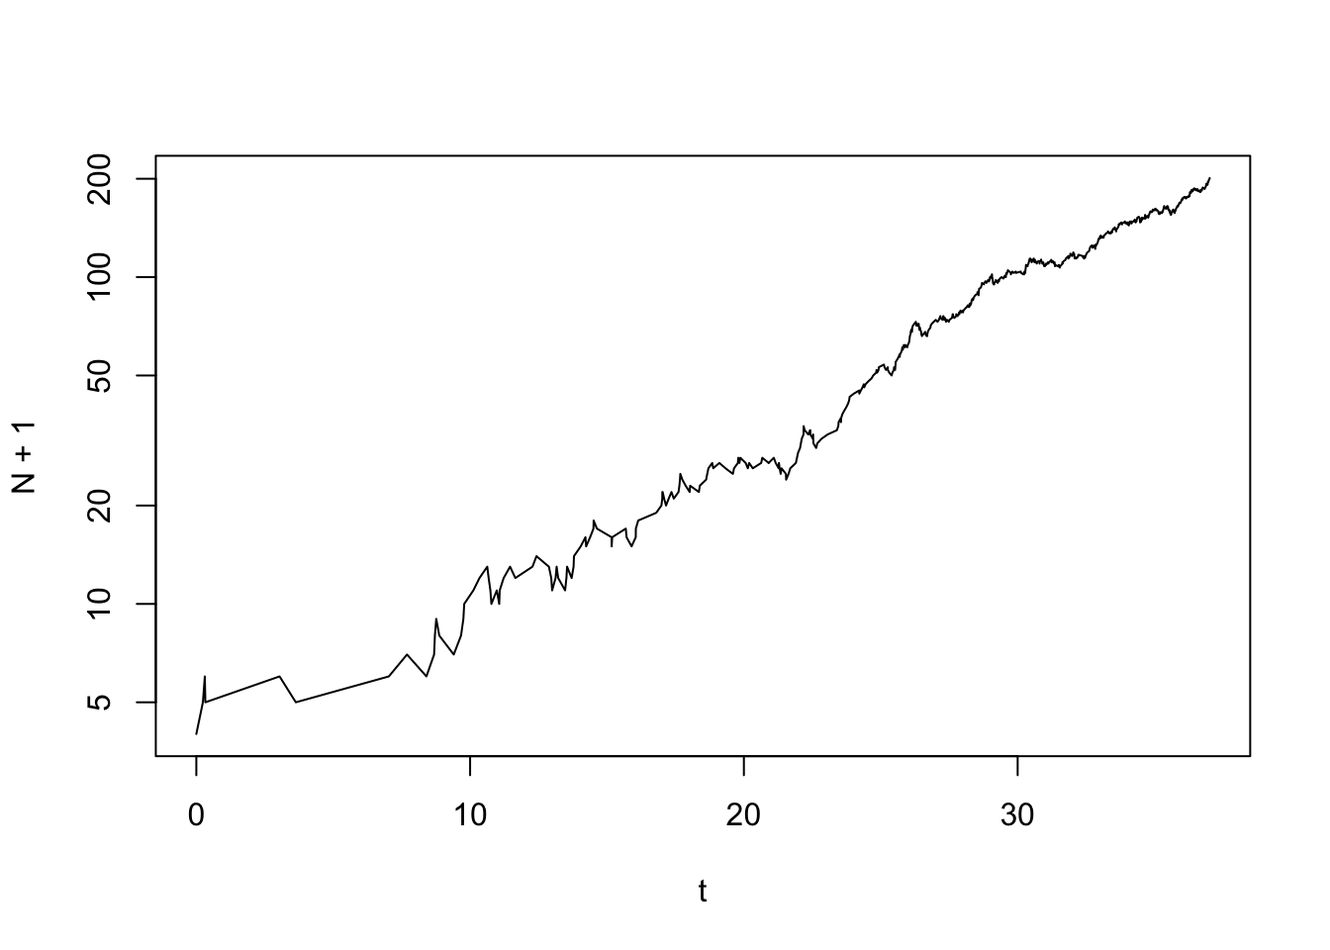
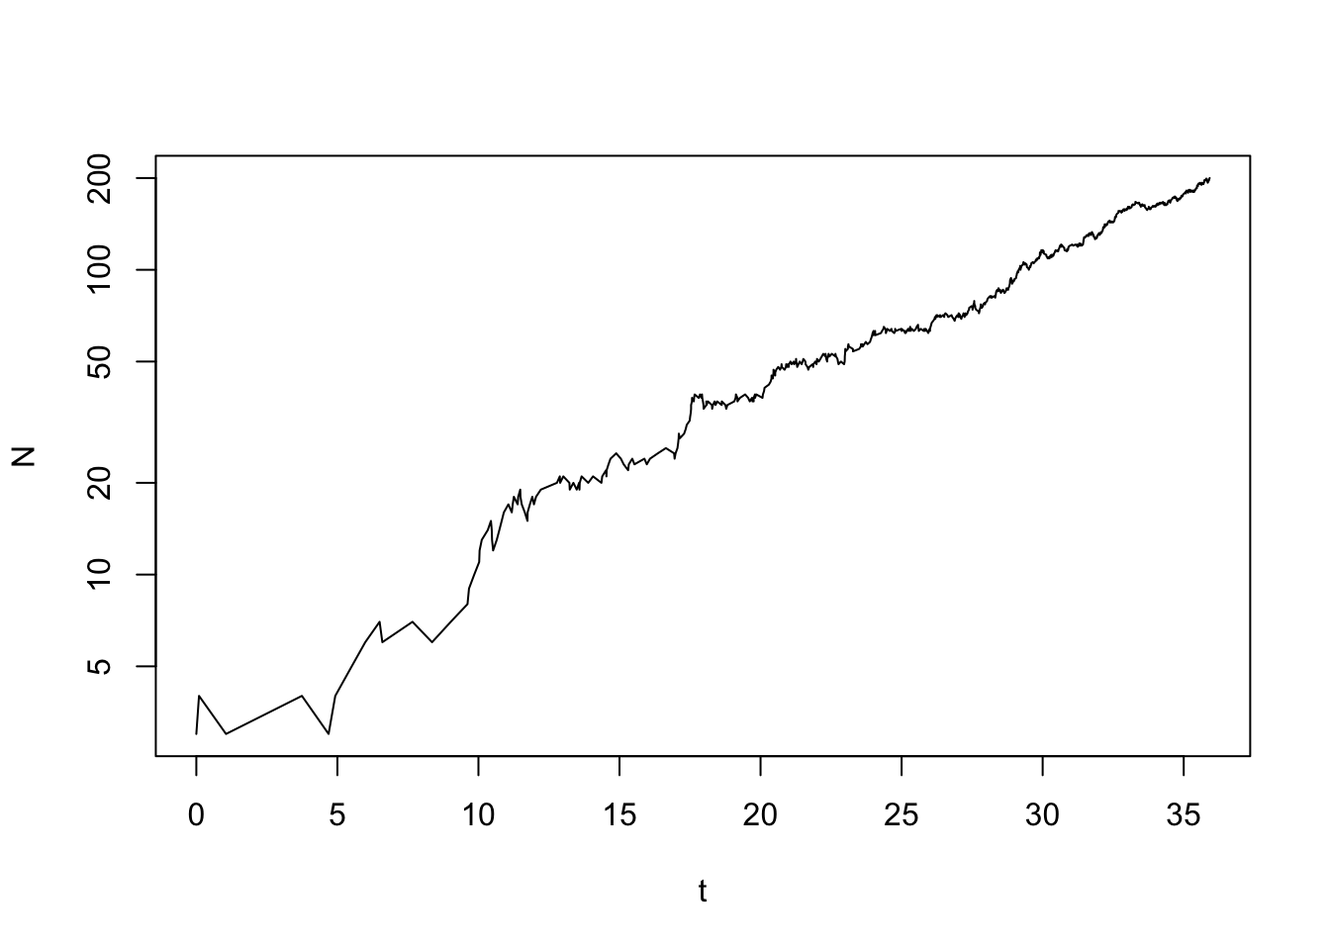
correcting errors

diff --git a/docs/DemographicStochasticity.html b/docs/DemographicStochasticity.html
@@ -273,30 +273,28 @@ $(document).ready(function () {
 
 <div id="demographic-stochasticity" class="section level1 tabset">
 <h1>Demographic Stochasticity</h1>
-<div id="demographic-stochasticity-1" class="section level2">
-<h2>Demographic Stochasticity</h2>
 <p>In this exercise, we will explore through stochastic simulations a simple birth-death process. In the lecture, we have seen that the deterministic equation for exponential growth,</p>
 <p><span class="math display">\[
 \frac{\mathrm{d}N}{\mathrm{d}t}=N(b-d)=Nr,
 \]</span> describes the mean over many simulations. These simulations take into account that, even if all individuals in a population are genetically identical, they will still differ in the number of their offspring and their age at death. This is due to chance events (some people are hit by a falling tree while others are not…). Fluctuations due to such chance events acting at the level of the individual are called <em>demographic stochasticity</em>. In this exercise, we will explore the consequences of demographic stochasticity for population viability.</p>
-<p>More specifically, stochasticity enters our simulation by deciding randomly whether the next event in a population is a deatz or a birth. If death occurs, then population size decreases by one and if birth occurs population size increases by one. The probabilities with which these two events occur are proportional to <code>d*N(t)</code> and <code>b*N(t)</code>, respectively. To implement this idea in R we can use the function <code>sample(x, size, prob)</code>, where <code>x = c(-1, 1)</code> is the vector of possible events (-1 in case of a death and 1 in case of a birth), <code>size = 1</code> indicates how many events occur at any given point in time, and <code>prob = c(d*N, b*N)</code> gives the vector of probabilities with which the two evnts occur. Thus, if you evaluate the following command ten times you expect to obtain <em>on average</em> -1 four times and +1 six times.</p>
+<p>More specifically, stochasticity enters our simulation by deciding randomly whether the next event in a population is a death or a birth. If death occurs, then population size decreases by one and if birth occurs population size increases by one. The probabilities with which these two events occur are proportional to <code>d*N(t)</code> and <code>b*N(t)</code>, respectively. To implement this idea in R we can use the function <code>sample(x, size, prob)</code>, where <code>x = c(-1, 1)</code> is the vector of possible events (-1 in case of a death and 1 in case of a birth), <code>size = 1</code> indicates how many events occur at any given point in time, and <code>prob = c(d*N, b*N)</code> gives the vector of probabilities with which the two evnts occur. Thus, if you evaluate the following command ten times you expect to obtain <em>on average</em> -1 four times and +1 six times.</p>
 <pre class="r"><code>sample(x =c(-1, 1), size = 1, prob = c(d = 0.2, b = 0.3))
 # in fact, instead of evaluating the above line of code ten times we can simply evaluate
-sample(x =c(-1, 1), size = 10, replace = TRUE, prob = c(d = 0.2, b = 0.3)) # here we had to add the argument replace=TRUE to the function to indicate that earlier outcomes do not effect the probabilities for alternative future outcomes</code></pre>
+sample(x =c(-1, 1), size = 10, replace = TRUE, prob = c(d = 0.2, b = 0.3)) # here we had to add the argument replace=TRUE to the function to indicate that earlier outcomes do not effect the probabilities of future outcomes</code></pre>
 <p>If the population wide death and birth rate are given by <code>d*N</code> and <code>b*N</code>, respectively, how much time elapses between the occurence of two events? This <em>waiting time</em> depends on the probability that neither a death nor a birth event occurs at a given moment. Thus, the length of the waiting time between two events is also a random variable and its distribution is given by the exponential distribution. We can determine the length of the wating time by drawing a random number from the exponential distribution after a death or a birth has occured using <code>rexp(n = 1, rate = d * N + b * N)</code>, where <code>n = 1</code> indicates that we are drawing a single waiting time and <code>rate = d * N + b * N</code> is the <em>total event rate</em>. For example</p>
 <pre class="r"><code>d &lt;- 0.2
 b &lt;- 0.3
 N &lt;- 10
 rexp(n = 1, rate = d * N + b * N)</code></pre>
 <p>gives the waiting time between two events. Note that <code>rexp(n = 1, rate = d * N + b * N)</code> produces a different value each time you execute the above command.</p>
-<p>In the following piece of R-code we define a function that puts all these pieces together and creates a stochastic population dynamical time series. The function has four arguments: <code>N0</code> (the initial number of individuals in the population), <code>Nmax</code> (when the simulated population has reached this number the simulation stops; the simulation will also stop once the population has gone extinct (<code>N=0</code>)), <code>d</code> (the per capita death rate) and <code>b</code> (the per capita birth rate). At the heart of our function is a while loop so that the algorithm is repeated until the population is either extinct or the population size has reached <code>Nmax</code>.</p>
-<pre class="r"><code>time_series &lt;- function(N0, Nmax, d, b){# this defines a function with the name &quot;time_series&quot;. It has four arguments: N0, Nmax, birth, death
+<p>In the following piece of R-code we define a function that puts all these pieces together and creates a stochastic population dynamical time series. The function has four arguments: <code>N0</code> (the initial number of individuals in the population), <code>Nmax</code> (when the simulated population has reached this number the simulation stops (the simulation also stops once the population has gone extinct (<code>N=0</code>)), <code>d</code> (the per capita death rate) and <code>b</code> (the per capita birth rate). At the heart of our function is a <code>while</code>-loop so that the algorithm is repeated until the population is either extinct or the population size has reached <code>Nmax</code>.</p>
+<pre class="r"><code>time_series &lt;- function(N0, Nmax, d, b){# this defines a function with the name &quot;time_series&quot;. It has four arguments: N0, Nmax, b, d
   N &lt;- N0 # initial value for population size
   t &lt;- 0 # initial value for time
   output &lt;- data.frame(t,N) # creates a data frame with two columns (one for time and one for population size) in which we can store the results from the simulation, we could also have use a matrix instead
   while (N &lt; Nmax &amp; N &gt; 0) {# loop runs until N=0 or N=Nmax
-    dt &lt;- rexp(1, rate = d * N + b * N) # time to next event
-    event &lt;- sample(c(-1, 1), 1, prob = c(d * N, b * N)) # determines which type of event happens by drawing a random number
+    dt &lt;- rexp(1, rate = d * N + b * N) # time to next event drawn from exponential distribution
+    event &lt;- sample(c(-1, 1), 1, prob = c(d * N, b * N)) # determines whether next event is birth or death
     t &lt;- t + dt # updates time
     N &lt;- N + event # updates population size
     output &lt;- rbind(output, c(t, N)) # updates output by adding a new row
@@ -307,26 +305,32 @@ rexp(n = 1, rate = d * N + b * N)</code></pre>
 <pre class="r"><code>time_series(N0 = 3, Nmax = 10, d = 0.2, b = 0.3)</code></pre>
 <pre><code>##            t  N
 ## 1  0.0000000  3
-## 2  0.3357333  4
-## 3  1.8686424  5
-## 4  2.8669254  4
-## 5  3.1661368  3
-## 6  3.4675227  4
-## 7  3.9520324  5
-## 8  4.4441717  6
-## 9  4.7472628  7
-## 10 4.8644990  8
-## 11 5.1612488  9
-## 12 5.2372376 10</code></pre>
+## 2  0.7143201  4
+## 3  0.8235761  5
+## 4  1.1380194  4
+## 5  1.3201512  5
+## 6  2.0445433  4
+## 7  3.4824504  3
+## 8  3.6450914  4
+## 9  4.1332520  5
+## 10 4.4396723  6
+## 11 4.6463058  5
+## 12 7.1406417  6
+## 13 7.4495926  7
+## 14 7.6167717  6
+## 15 7.6613418  7
+## 16 7.7292746  8
+## 17 7.8018218  9
+## 18 7.9019734 10</code></pre>
 <p>Thus, in this case we have <code>N0=3</code>, <code>Nmax=10</code>, <code>d=0.2</code>, and <code>b=0.3</code>. The output of the function is a data frame with two columns. The first column gives the time an event occurs and the second column gives the updated population size. Each time you evaluate the function you obtain a different output. This is due to the stochastic nature of the simulation. Let us visualize a time series (now for <em>Nmax=200</em>).</p>
 <pre class="r"><code>data &lt;- time_series(3, 200, 0.2, 0.3)
 plot(data, type=&quot;l&quot;)</code></pre>
 <p><img src="DemographicStochasticity_files/figure-html/unnamed-chunk-5-1.png" width="672" /></p>
 <p>Maybe in your particular simulation the population went extinct? If so, execute the function again to see whether it might then have reached <code>Nmax</code> before going extinct. Since we are dealing with a stochastic version of exponential growth we might want to plot the population size on a log-scale.</p>
-<pre class="r"><code>plot(N+1 ~ t, data, log=&quot;y&quot;, type=&quot;l&quot;)</code></pre>
+<pre class="r"><code>plot(data, log=&quot;y&quot;, type=&quot;l&quot;)</code></pre>
 <p><img src="DemographicStochasticity_files/figure-html/unnamed-chunk-6-1.png" width="672" /></p>
-<p>You can vary the parameters <code>N0</code>, <code>Nmax</code>, <code>d</code> and <code>b</code> and investigate their effect on the time series, more specifically, whether or not it experiences extinction.</p>
-<p>What is the effect of our chosen set of parameters on the probability that the population size reaches <code>N=Nmax</code> before going extinct? To investigate this we have to look at many realisations of the simulation and it is easier to do this by automatising this process. We start by setting the parameters where we add one additional parameter, <code>sim</code>, that determines how many times the simulation is repeated. We can do this using the same construction that we used when investigating many runs of environmental stochasticity.</p>
+<p>You can vary the parameters <code>N0</code>, <code>Nmax</code>, <code>d</code> and <code>b</code> and investigate their effect on the time series, more specifically, whether or not the population goes extinct.</p>
+<p>What is the effect of our chosen set of parameters on the probability that the population size reaches <code>N=Nmax</code> before it goes extinct? To investigate this, we have to look at many realisations of the simulation and it is easier to do this by automatising this process. We start by setting the parameters where we add one additional parameter, <code>sim</code>, that determines how many times the simulation is repeated. We can do this using the same construction we used when investigating many runs of environmental stochasticity.</p>
 <pre class="r"><code>N0 &lt;- 3
 Nmax &lt;- 50
 d &lt;- 0.2
@@ -334,25 +338,23 @@ b &lt;- 0.3
 sim &lt;- 10 # this sets the number of simulations
 
 results &lt;- list() # using the list variable allows us to save results of all iterations of the function time_series, that is, we can save several data frames in it
-j &lt;- 1 # intialize counter
 for (i in 1:sim) {# to create sim different simulations, we embedd the function time.series in a for-loop
-  results[[j]] &lt;- time_series(N0, Nmax, d, b) # adds the result of a simulation to the results, note that we have to apply [[]] when subsetting lists
-  j = j + 1
+  results[[i]] &lt;- time_series(N0, Nmax, d, b) # adds the result of a simulation to the results, note that we have to use [[]] to access list entries
 }</code></pre>
-<p>In the next step, we print the results. Before we can do this we have to determine the length of the x-axis (time) in the plot. We do that by determining the length of the longest simulation run.</p>
-<pre class="r"><code>maxt &lt;- numeric(sim) # creates a vector in which we store the length of the different time series
+<p>Before we can plot the results we have to determine the length of the x-axis (time) in the plot. We do that by determining the length of the longest simulation run.</p>
+<pre class="r"><code>maxt &lt;- c() # creates a vector in which we store the length of the different time series
   for (i in 1:sim) {
   maxt[i] &lt;- max(results[[i]][1]) # determines the length of the ith time series and stores the result in the object maxt
   }
 tmax &lt;- max(maxt) # the length of the longest time series is assigned to the parameter tmax</code></pre>
 <p>Next comes the code that produces the plots.</p>
 <pre class="r"><code>colors &lt;- rainbow(length(results)) # sets number of colours equal to number sim
-plot(N+1 ~ t, results[[1]], type=&quot;l&quot;, log=&quot;y&quot;, ylim=c(1,Nmax),xlim=c(0,tmax), col=colors[1]) # plots the first simulation
+plot(results[[1]], type=&quot;l&quot;, log=&quot;y&quot;, ylim=c(1,Nmax),xlim=c(0,tmax), col=colors[1]) # plots the first simulation
 for (i in 2:sim) {# this for-loop adds all further simulations to the same graph
-  lines(N+1~t, results[[i]], type=&quot;l&quot;, col=colors[i])
+  lines(results[[i]], type=&quot;l&quot;, col=colors[i])
 }</code></pre>
 <p><img src="DemographicStochasticity_files/figure-html/unnamed-chunk-9-1.png" width="672" /></p>
-<p>This results in a figure showing ten simulation runs. From this figure, you can visually count how many of these runs resulted in extinction and how many in exponential growth.</p>
+<p>This results in a figure showing ten simulation runs. From this figure, you can visually count how many of these runs result in extinction and how many in exponential growth.</p>
 <div id="task" class="section level3">
 <h3>Task</h3>
 <ol style="list-style-type: decimal">
@@ -363,9 +365,21 @@ u(N_0)=
 1 &amp; \mathrm{for}\,\,\, b\leq d\\
 (\frac{d}{b})^{N_0} &amp; \mathrm{for}\,\,\, b&gt;d.
 \end{cases}
-\]</span> Calculate the probability for extinction according to this formula for each of the parameter combinations in your table and enter these results in a second table. How well do the results from your simulations and from the above formula agree?</p></li>
+\]</span> The following code produces the same five by five matrix but with all entries calculated according to the analytical formula. How well do your simulation results agree with the results predicted based on the analytical formula?</p></li>
 </ol>
-</div>
+<pre class="r"><code>analytical_results &lt;- matrix(nrow = 5, ncol = 5) # defines an empty five by five matrix in which we can store the results
+
+death &lt;- 1
+N0_sizes &lt;- c(1, 3, 5, 10, 50)
+birth_rates &lt;- c(0.9, 1, 1.1, 1.3, 1.5)
+
+for (i in 1:5){ # two nested for-loops, the first one walks through the rows and the second one walks through the columns
+  for (j in 1:5){
+    analytical_results[i,j] &lt;- round(min(c(1,(death/birth_rates[j])^N0_sizes[i])),3) # results are rounded to three digits after the comma
+  }
+}
+
+analytical_results # shows the resulting matrix</code></pre>
 </div>
 </div>
 

diff --git a/docs/EnvironmentalStochasticity.html b/docs/EnvironmentalStochasticity.html
@@ -282,8 +282,6 @@ N(t)=N(0)*(1+p_bn-p_d)^t=N(0)*\lambda^t
 <p>Importantly, the above equation assumes that the growth factor <span class="math inline">\(\lambda\)</span> does not vary in time. In this exercise, we will relax this assumption. For example, climatic conditions vary among years and this might affect the the probability to produce offspring, <span class="math inline">\(p_b\)</span>, the average number of offspring, <span class="math inline">\(n\)</span>, and the probability to die, <span class="math inline">\(p_d\)</span>, of ALL individuals in a population. In short, <span class="math inline">\(\lambda\)</span> will vary in time and we indicate this by giving it a subscript, <span class="math inline">\(\lambda_t\)</span>.</p>
 <p>In this exercise, we simulate environmental stochasticity in R. We do this by choosing a set of random postive numbers that represent the <span class="math inline">\(\lambda\)</span>-values in different years. More concretely, let us assume that we can represent the fluctuation in the environment by drawing a sequence of <span class="math inline">\(\lambda\)</span>-values from an interval with a lower boundary given by the parameter <code>min</code> and an upper boundary given by the parameter <code>max</code>. Let us furthermore assume that eaach number of within the interval <code>(min, max)</code> occurs with equal probability. We can do this in R by using the command <code>runif(n, min,max)</code>. The name runif is an abbreviation combining the words <em>random</em> and <em>uniform</em>, indicating that the command <code>runif(n, min, max)</code> produces a vecotor of <code>max</code> numbers (the length of the time series) and that these are drawn randomly from the interval <code>(min, max)</code>. Drawing a set of random numbers from an interval corresponds to drawing numbers from a <em>uniform distribution</em>.</p>
 <pre class="r"><code>runif(10, 1, 2) # produces a vector of 10 random numbers between 1 and 2</code></pre>
-<pre><code>##  [1] 1.493550 1.560857 1.774472 1.297771 1.404146 1.932082 1.194803 1.310472
-##  [9] 1.826872 1.537766</code></pre>
 <p>We could in principle decide to draw the random numbers from distributions other than the normal distribution, for example from a Normal or Poisson distribution (using the commands <code>rnorm(n, mean, sd)</code> and <code>rpois(n, lambda)</code>, respectively). However, we would have to assure that we only obtain positive values, since the growth factor <span class="math inline">\(\lambda\)</span> is by definition a non-negative number.</p>
 <p>Let us dfine the parameter values of the random distributino and then draw the sequence of <span class="math inline">\(\lambda\)</span>-values.</p>
 <pre class="r"><code>n &lt;- 100 # lenght of time series
@@ -306,7 +304,6 @@ for (t in 1:n) {# for-loop that projects the population n time steps into the fu
   }</code></pre>
 <p>Assuming that <em>N</em> describes the <em>absolute population size</em> we in this code set any population size less than one equal to zero (half a fox does not exist). In other words, if <span class="math inline">\(N &lt; 1\)</span> at any time <em>t</em>, then the we consider the population extinct from that time point onwards. Next, we plot the resulting time series on a log-scale.</p>
 <pre class="r"><code>plot(0:n, time_series+1, type=&quot;l&quot;, log=&quot;y&quot;, ylim=c(1,max(time_series)), xlab=&quot;time&quot;, ylab=&quot;population size&quot;)</code></pre>
-<p><img src="EnvironmentalStochasticity_files/figure-html/unnamed-chunk-4-1.png" width="672" /></p>
 <p>At each instance this code is executed (starting from the line in which the vector <code>growht_factors</code> is defined), we obtain a different random time series. If you produce several time series, you will note that in some cases the population goes extinct while in others the population is still present after <em>n</em> time steps.</p>
 <p>To confirm that the arithmetic mean of the annual grwoth factors given by</p>
 <p><span class="math display">\[
@@ -315,17 +312,15 @@ for (t in 1:n) {# for-loop that projects the population n time steps into the fu
 <p>is not informative, we can add the time series as it would result if the population would grow each time step by the factor <span class="math inline">\(\bar\lambda\)</span>.</p>
 <pre class="r"><code>arithmetic_mean &lt;- mean(growth_factors) # calculates the arithmetic mean of the annual grwoth factors
 arithmetic_mean # shows the value of the arithmetic mean</code></pre>
-<pre><code>## [1] 1.232333</code></pre>
 <p>Next, we add the line that shows how the population develops if it changes each year according to the arithmetic mean of the <span class="math inline">\(\bar\lambda\)</span>.</p>
-<pre class="r"><code>time_series_arith &lt;- numeric(n+1) # creates an (empty) vector of length tmax+1 in which we will store the population time series
+<pre class="r"><code>time_series_arith &lt;- numeric(n+1) # creates an (empty) vector of length n+1 in which we will store the population time series
 time_series_arith[1] &lt;- N0 # first entry in this vector equals initial population size N(0)
-  for (t in 1:n) {# for-loop that projects the population tmax time steps into the future using only the arithmetric mean
+  for (t in 1:n) {# for-loop that projects the population n time steps into the future using only the arithmetric mean
   time_series_arith[t+1] &lt;- max(0, time_series_arith[t]*arithmetic_mean)
   }
 
 plot(0:n, time_series+1, type=&quot;l&quot;, log=&quot;y&quot;, ylim=c(1,max(time_series)), xlab=&quot;time&quot;, ylab=&quot;population size&quot;) # repeats the plot with the stochastic time series
 lines(0:n, time_series_arith, type=&quot;p&quot;, col=&quot;2&quot;) # adds the line based on arithmetric mean to the plot</code></pre>
-<p><img src="EnvironmentalStochasticity_files/figure-html/unnamed-chunk-6-1.png" width="672" /></p>
 <p>As expected, the arithmetic mean growth factor is not very accurate in predicting the fate of the population.</p>
 <p>Next, let us add a line that shows how the population changes if each year it grows according to the geometric mean, <span class="math inline">\(\tilde\lambda\)</span>, of the annual growth factors, defined as</p>
 <p><span class="math display">\[
@@ -333,18 +328,16 @@ lines(0:n, time_series_arith, type=&quot;p&quot;, col=&quot;2&quot;) # adds the 
 \]</span></p>
 <pre class="r"><code>geometric_mean &lt;- exp(mean(log(growth_factors))) # calculates the geometric mean of the annual grwoth factors by using Eq.(3.16) in Pasztor et al. (2016)
 geometric_mean # shows the value of the geometric mean</code></pre>
-<pre><code>## [1] 1.150874</code></pre>
 <p>The following piece of code adds the desired line:</p>
-<pre class="r"><code>time_series_geom &lt;- numeric(n+1) # creates an (empty) vector of length tmax+1 in which we will store the population time series
+<pre class="r"><code>time_series_geom &lt;- numeric(n+1) # creates an (empty) vector of length n+1 in which we will store the population time series
 time_series_geom[1] &lt;- N0 # first entry in this vector equals initial population size N(0)
-for (t in 1:n) {# for-loop that projects the population tmax time steps into the future using only the geometric mean
+for (t in 1:n) {# for-loop that projects the population n time steps into the future using only the geometric mean
   time_series_geom[t+1] &lt;- max(0,time_series_geom[t]*geometric_mean)
 }
 
 plot(0:n, time_series+1, type=&quot;l&quot;, log=&quot;y&quot;, ylim=c(1,max(time_series)), xlab=&quot;time&quot;, ylab=&quot;population size&quot;) # repeats the plot with the stochastic time series
 lines(0:n, time_series_arith, type=&quot;p&quot;, col=&quot;2&quot;) # adds the line based on arithmetric mean in red
 lines(0:n, time_series_geom, type=&quot;p&quot;, col=&quot;4&quot;) # add the line based on geometric mean in blue</code></pre>
-<p><img src="EnvironmentalStochasticity_files/figure-html/unnamed-chunk-8-1.png" width="672" /></p>
 <p>You might encounter simulation runs in which the population goes extinct while the projection based on the geometric mean suggests that the population should slowly increase. Can you explain this apparent contradiction?</p>
 </div>
 <div id="the-probability-of-extinction" class="section level2">
@@ -387,16 +380,15 @@ plot(0:n, results[, 1]+1, type=&quot;l&quot;, log=&quot;y&quot;, ylim=c(1, max(m
 for (i in 2:sim) {# add the results from all other simulations to the same graph
   lines(0:n, results[, i]+1, type=&quot;l&quot;, col=cl[i])
 }</code></pre>
-<p><img src="EnvironmentalStochasticity_files/figure-html/unnamed-chunk-11-1.png" width="672" /></p>
 <p>From these graphs, you can determine the number of simulation runs in which the population goes extinct.</p>
 <div id="tasks" class="section level3">
 <h3>TASKS</h3>
 <ol style="list-style-type: decimal">
-<li><p>Keep <em>max=2</em> fixed and vary <em>min</em> and <em>n</em> according to <em>min = (0; 0.1; 0.2; 0.3; 0.4; 0.5)</em> and <em>tmax = (100; 200; 500)</em>, respectively. Varying both parameters together gives you 18 parameter combinations which you can arrange in a table with three rows (<em>n</em>) and six columns (<em>min</em>). In each cell of this table, enter the proportion of 20 runs that result in extinction. Do these simulations for <em>tmax=500</em>, of if this takes too long, for <em>tmax=200</em>.</p></li>
-<li><p>Keep <em>tmax=500</em> fixed and vary <em>min</em> and <em>max</em> according to <em>min/max = (0.9/1.1; 0.8/1.2; 0.7/1.3; 0.5/1.5; 0.2/1.8)</em>. For each <em>min/max</em> report the proportion of 20 runs in which the population goes extinct.</p></li>
-<li><p>For <em>tmax=500</em> and a pair of <em>min</em> and <em>max</em> of your own choice explore the effect of <em>N(0)</em> by varying it according to <em>N0=(1; 2; 3; 5; 10; 50)</em>. For each value of <em>N(0)</em>, report the proportion of ten runs in which the population went extinct.</p></li>
+<li><p>Keep <em>max=2</em> fixed and vary <em>min</em> and <em>n</em> according to <em>min = (0; 0.1; 0.2; 0.3; 0.4; 0.5)</em> and <em>n = (100; 200; 500)</em>, respectively. Varying both parameters together gives you 18 parameter combinations which you can arrange in a table with three rows (<em>n</em>) and six columns (<em>min</em>). In each cell of this table, enter the proportion of 20 runs that result in extinction. Do these simulations for <em>n=500</em>, of if this takes too long, for <em>n=200</em>.</p></li>
+<li><p>Keep <em>n=500</em> fixed and vary <em>min</em> and <em>max</em> according to <em>min/max = (0.9/1.1; 0.8/1.2; 0.7/1.3; 0.5/1.5; 0.2/1.8)</em>. For each <em>min/max</em> report the proportion of 20 runs in which the population goes extinct.</p></li>
+<li><p>For <em>n=500</em> and a pair of <em>min</em> and <em>max</em> of your own choice explore the effect of <em>N(0)</em> by varying it according to <em>N0=(1; 2; 3; 5; 10; 50)</em>. For each value of <em>N(0)</em>, report the proportion of ten runs in which the population went extinct.</p></li>
 </ol>
-<p>For each exercise, clarify for yourself why the observed pattern makes sense. Submit your results (for example, by entering them in a data frame).</p>
+<p>For each exercise, clarify for yourself why the observed pattern makes sense. Submit your results (for example, by entering them into a data frame).</p>
 </div>
 </div>
 </div>
